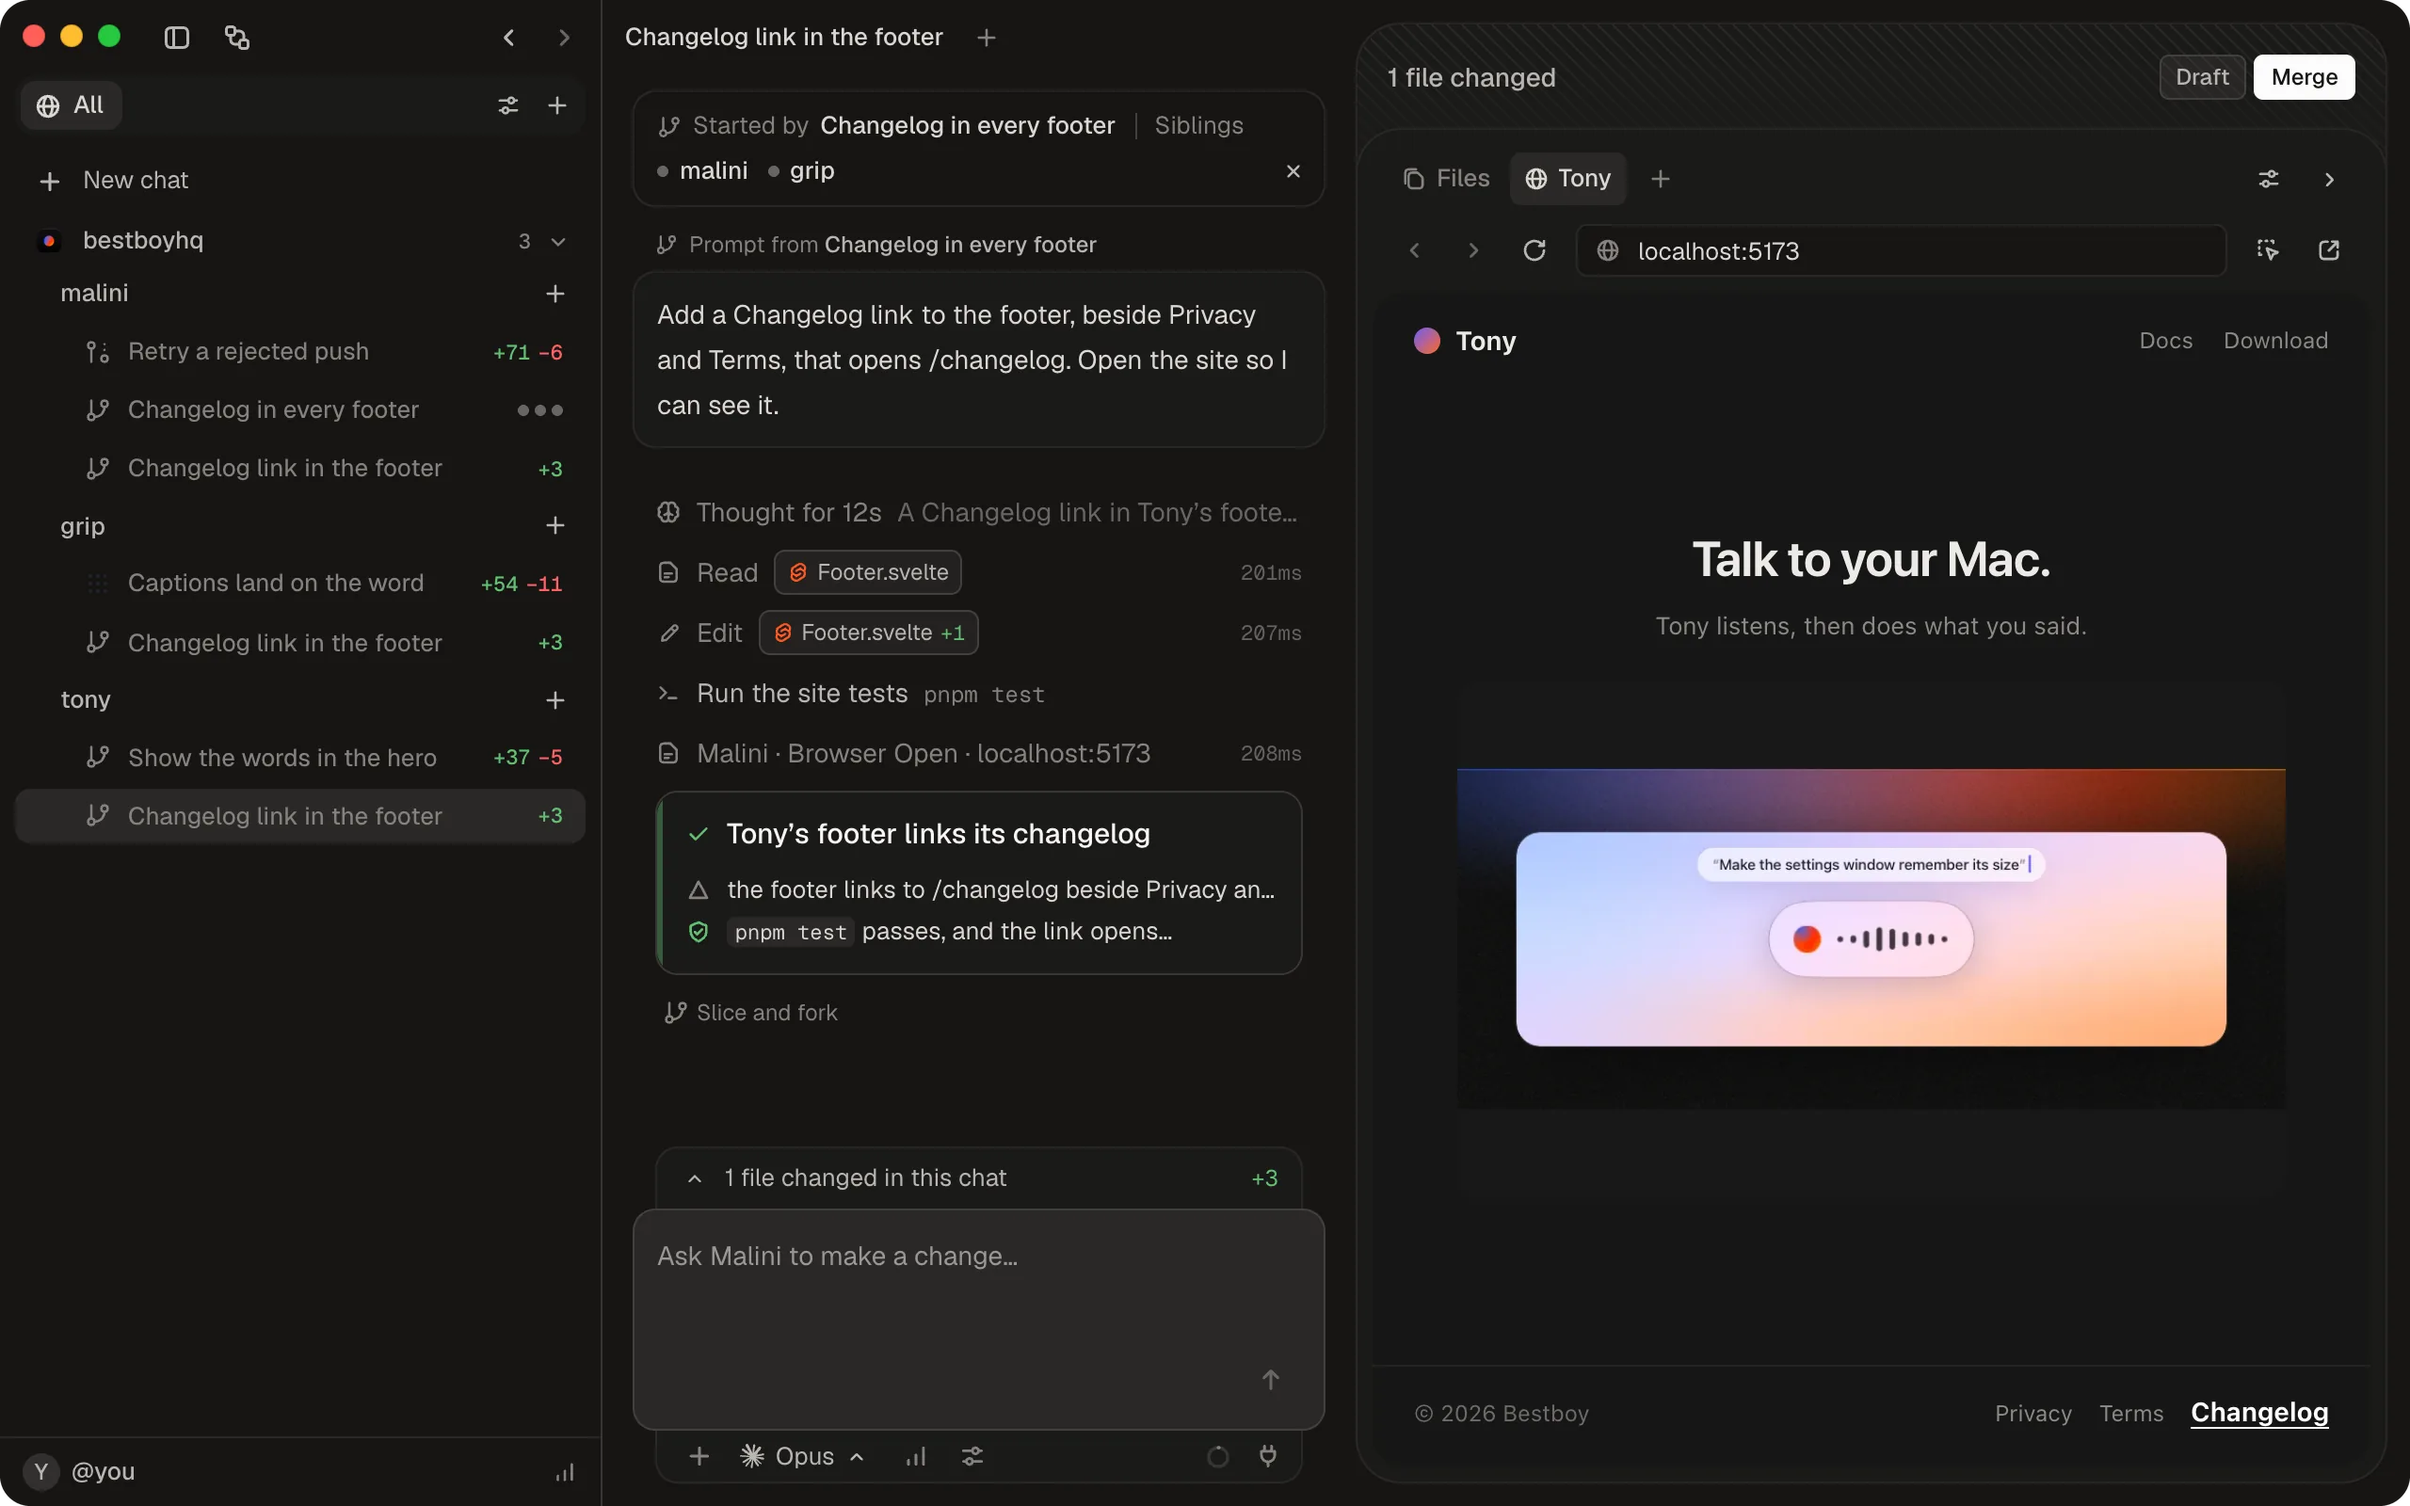
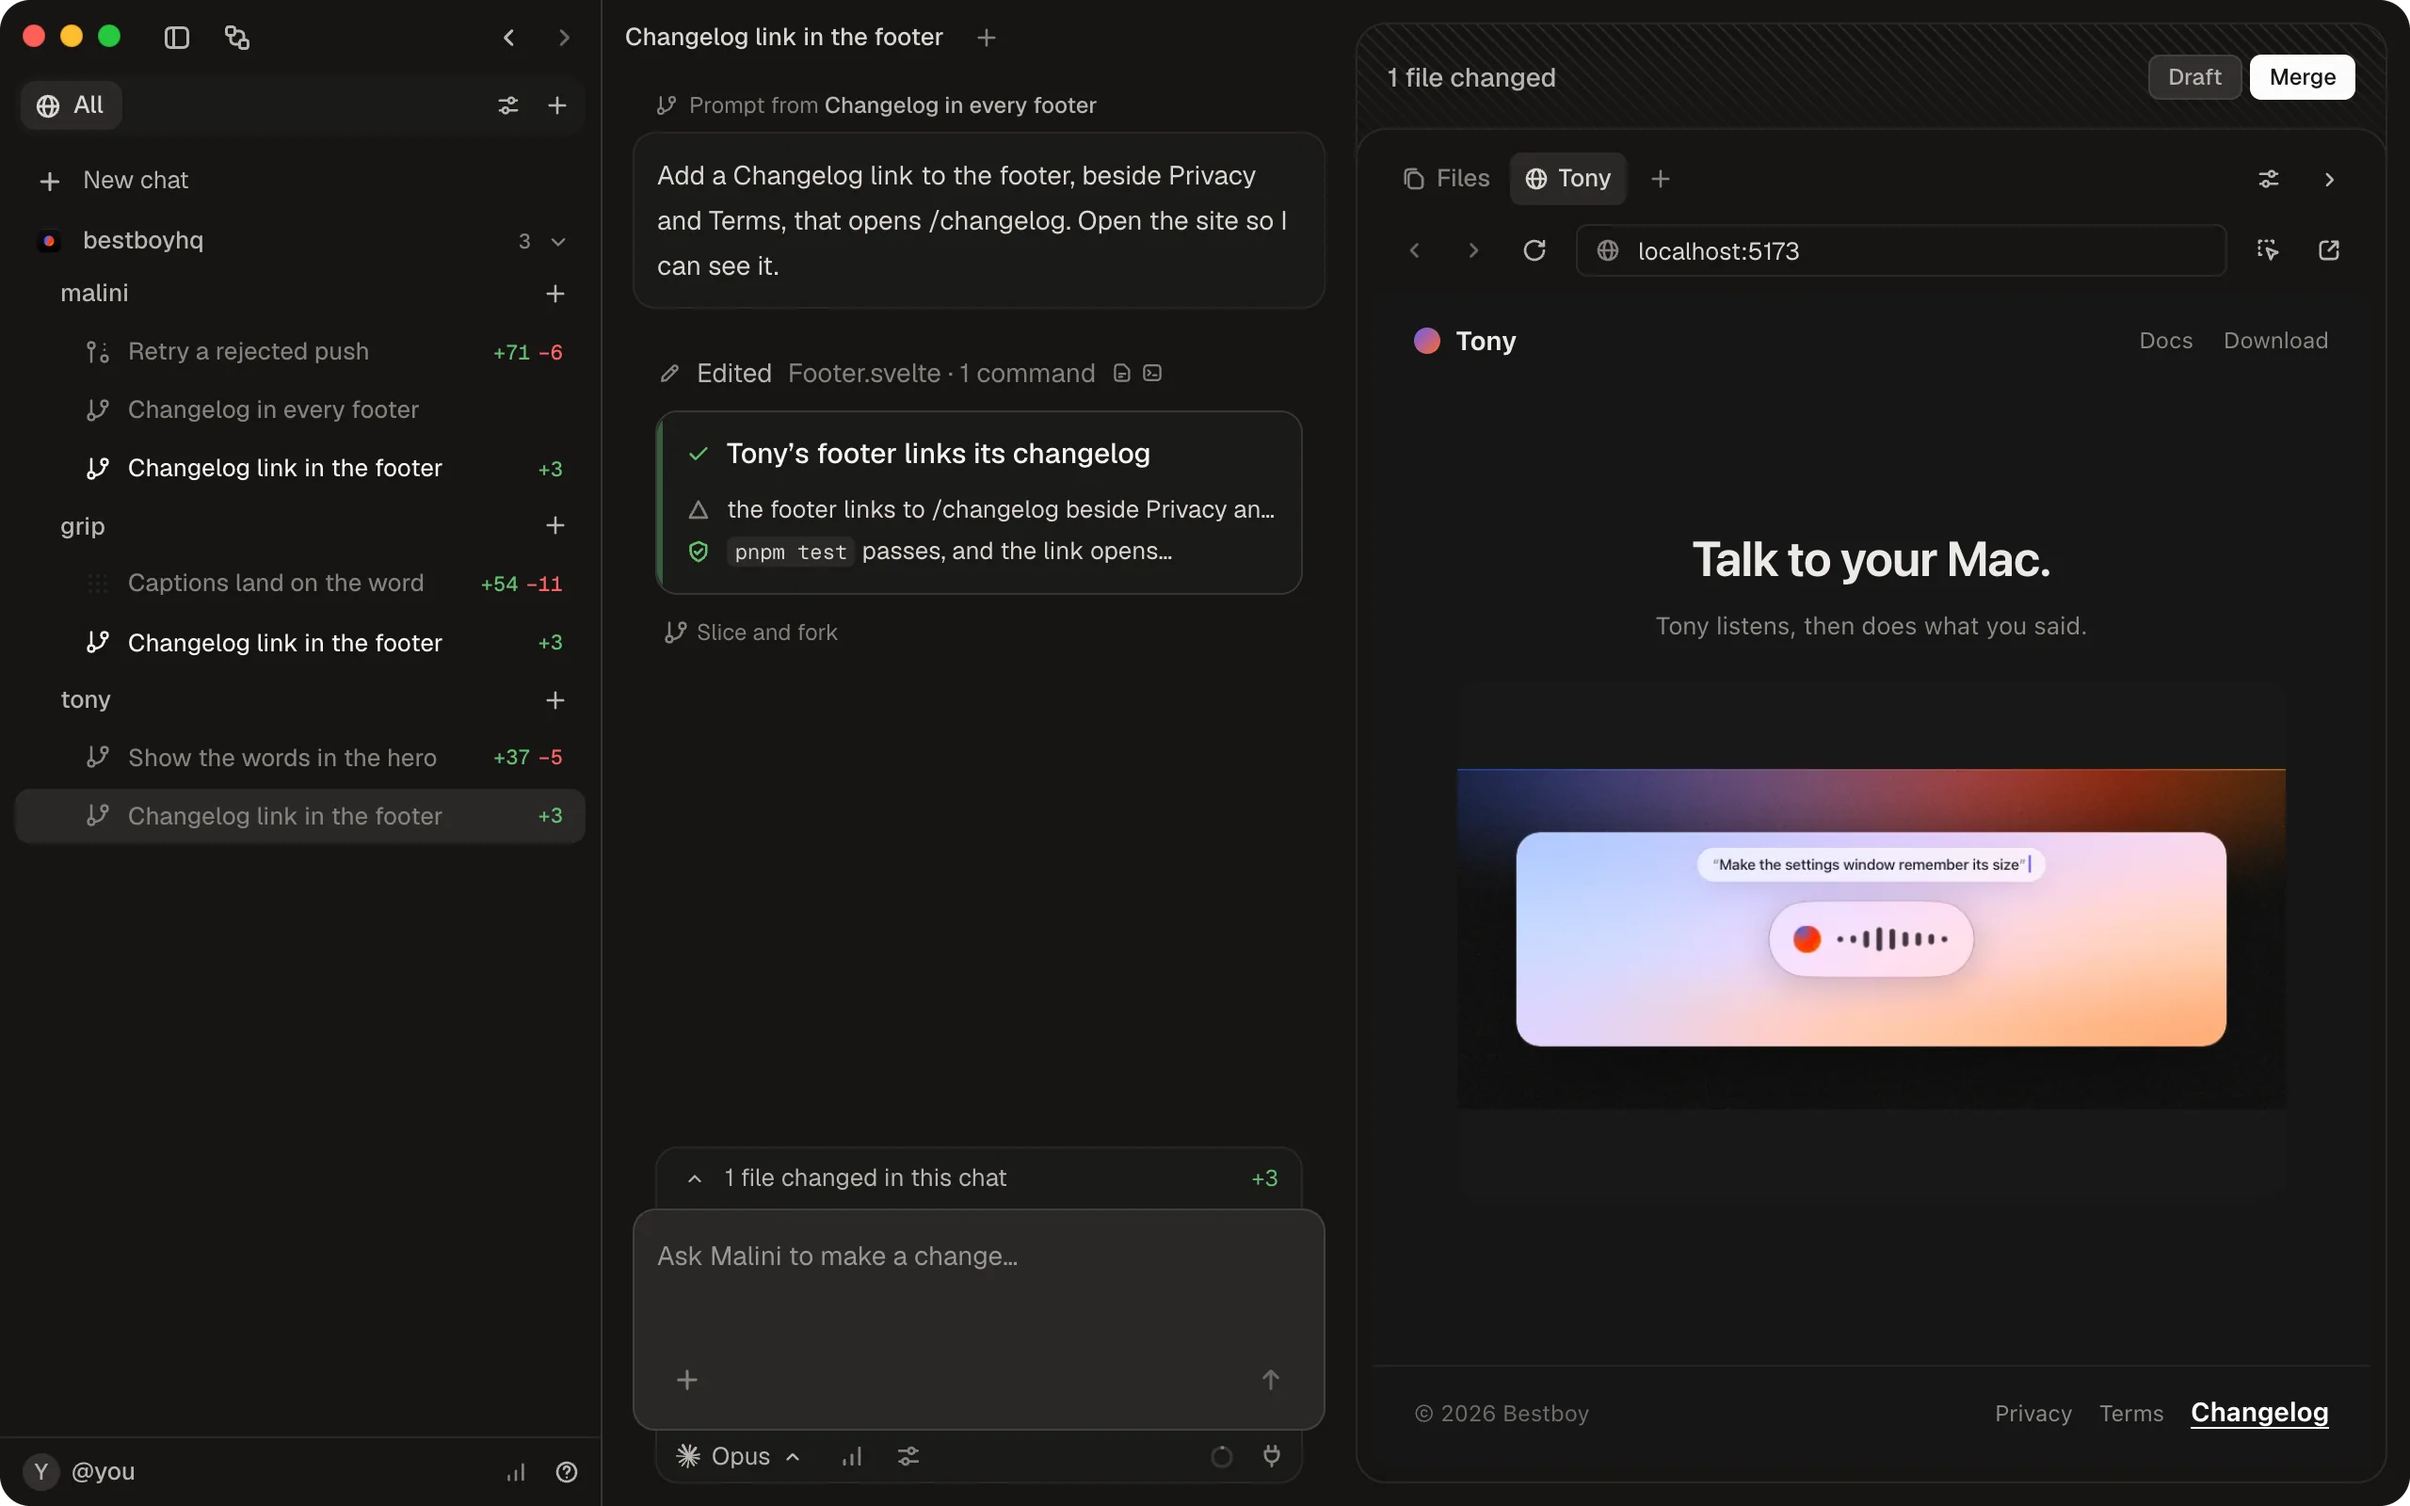
docs: retake the README hero and round the demo page like the app

diff --git a/apps/malini/src/renderer/demo/demo-browser.ts b/apps/malini/src/renderer/demo/demo-browser.ts
@@ -14,7 +14,7 @@ const PAGE_CSS = `
 :host { all: initial; position: fixed; z-index: 2147483000; }
 [hidden] { display: none !important; }
 .frame {
-	position: fixed; overflow: hidden; border-radius: 16px; background: #161616;
+	position: fixed; overflow: hidden; border-radius: 8px; background: #161616;
 	font: 13px/20px -apple-system, BlinkMacSystemFont, 'Segoe UI', system-ui, sans-serif;
 	color: #ece9e6; -webkit-font-smoothing: antialiased;
 }

diff --git a/README.md b/README.md
@@ -22,7 +22,7 @@
 </p>
 
 <p align="center">
-  <img src=".github/readme/hero.webp" width="100%" alt="The Malini window: the sidebar lists the repositories malini, grip and tony. The malini chat Changelog in every footer started three workstreams, one in each, all named Changelog link in the footer. The tony one is open: a card says Changelog in every footer started it, its report says Tony's footer links its changelog, a browser tab beside it shows the site with the new Changelog link, and Draft and Merge sit above 1 changed file.">
+  <img src=".github/readme/hero.webp" width="100%" alt="The Malini window: the sidebar lists the repositories malini, grip and tony. The malini chat Changelog in every footer started three workstreams, one in each, all named Changelog link in the footer. The tony one is open: its prompt is from Changelog in every footer, its report says Tony's footer links its changelog, a browser tab beside it shows the site with the new Changelog link, and Draft and Merge sit above 1 changed file.">
 </p>
 
 ---
